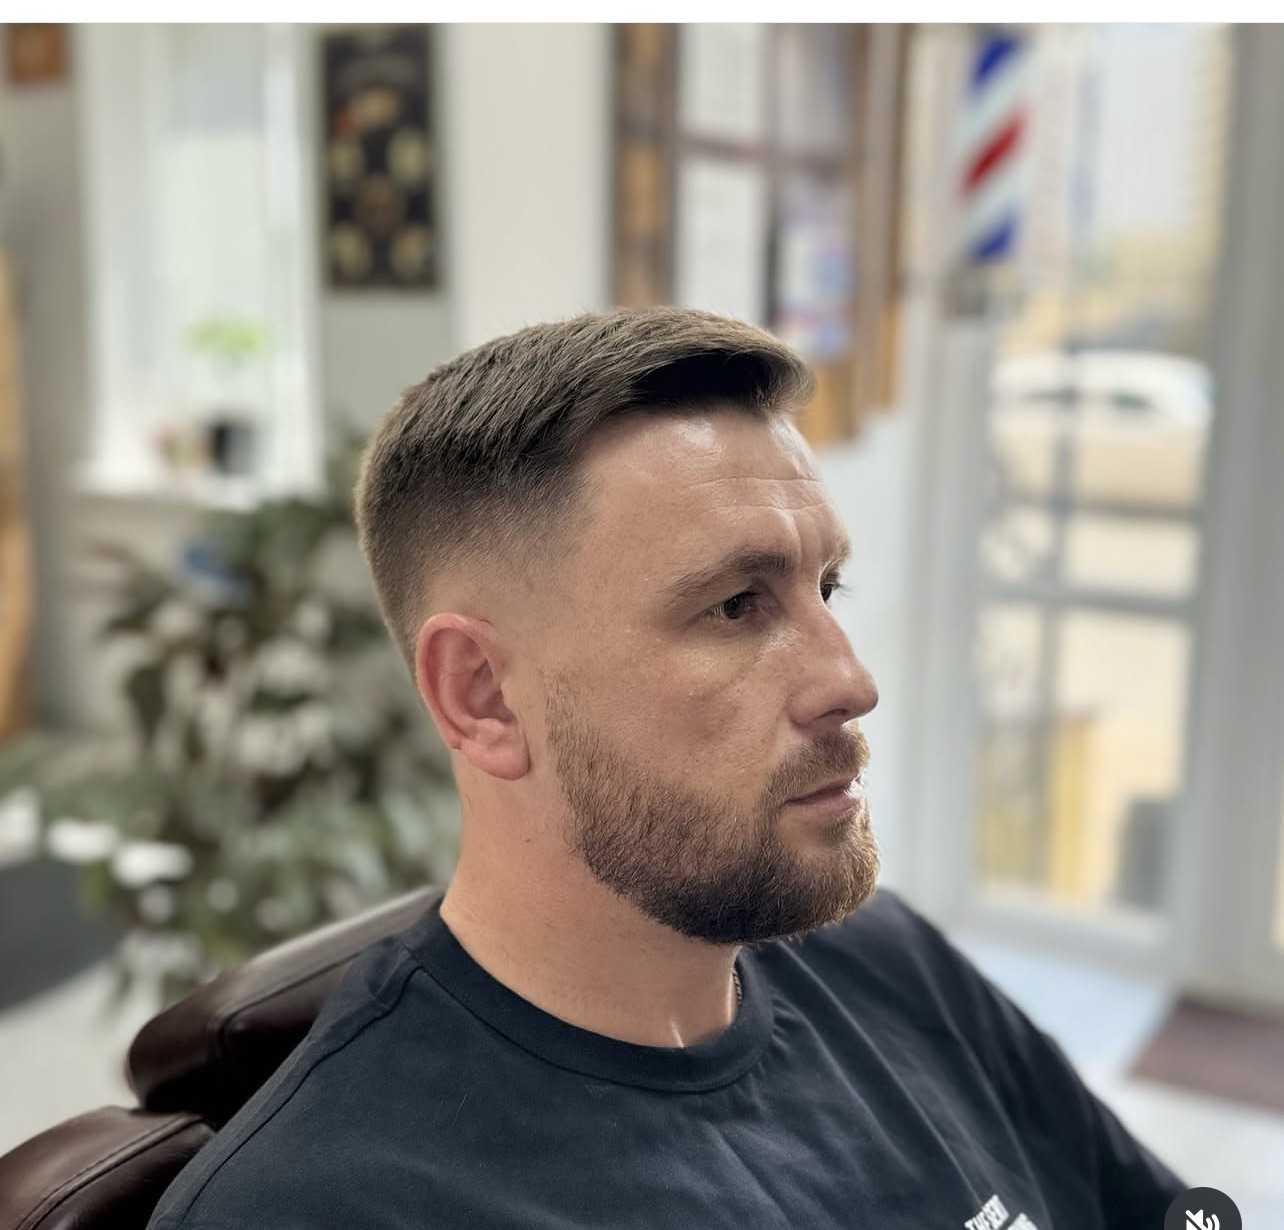
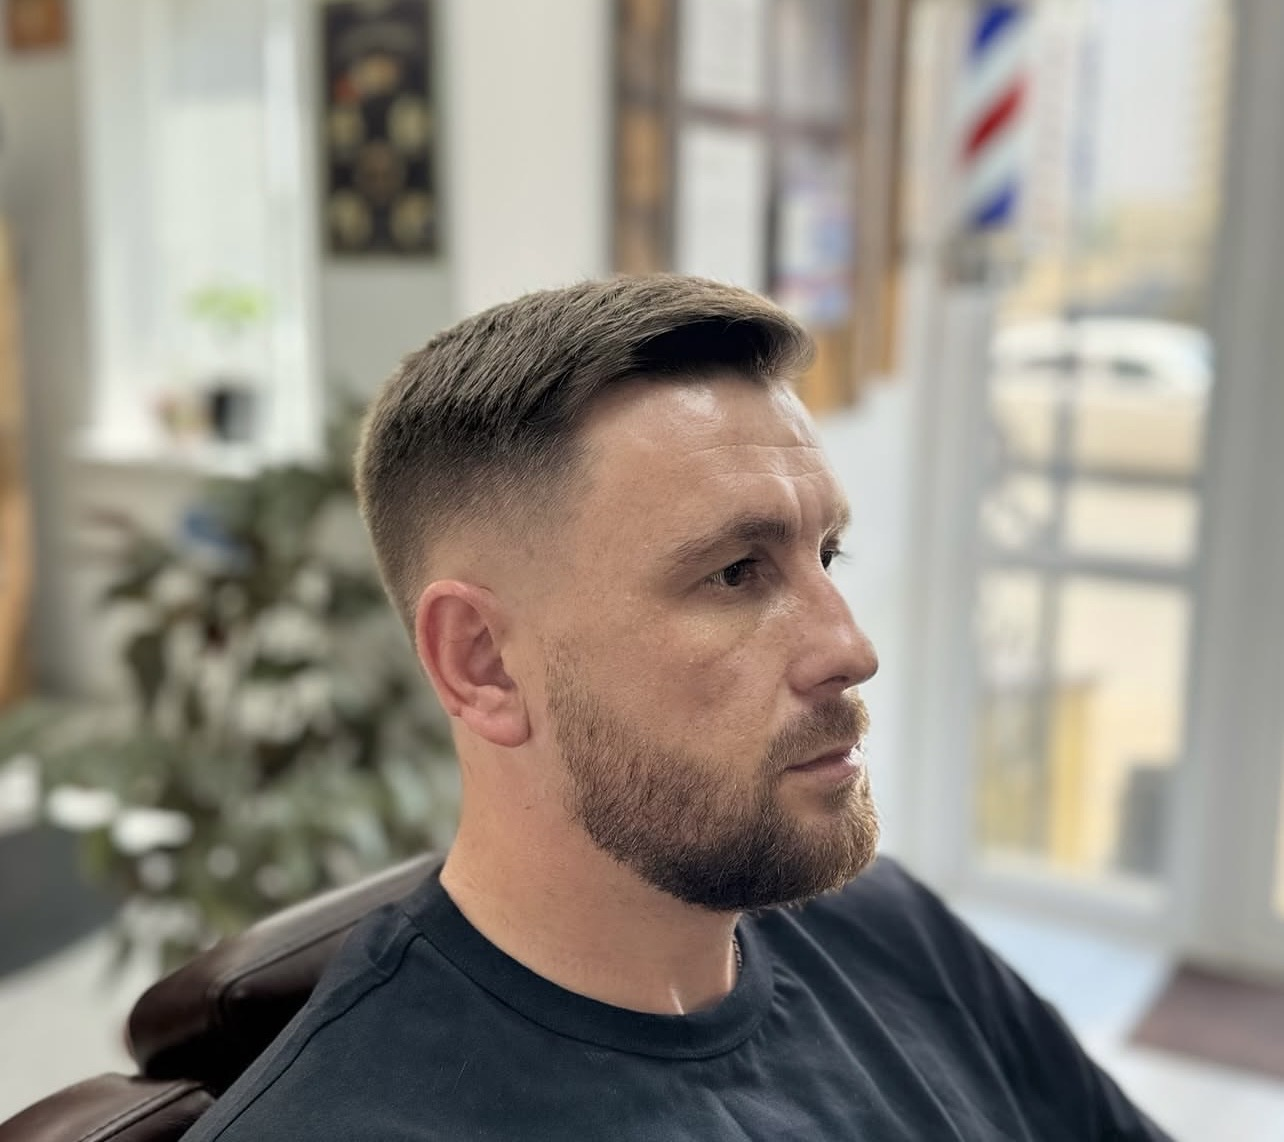
Откат логотипа в шапке, чистые фото портфолио + фото с сертификатами KONDOR
Логотип в шапке возвращён на текстовый вариант "АЛИХАН" по прямому
решению владельца. Фото 1 и 2 в разделе "Наши работы" заменены на чистые
оригиналы без следов скриншота Instagram (прислал владелец напрямую).
Добавлено седьмое фото - мастера салона с сертификатами мастер-класса
KONDOR.

diff --git a/index.html b/index.html
@@ -104,18 +104,10 @@
     padding: 14px clamp(18px, 5vw, 40px);
   }
   .brand{
-    display: flex; align-items: center; gap: 10px;
-    text-decoration: none;
-  }
-  .brand-logo{
-    width: 40px; height: 40px; border-radius: 50%; object-fit: cover;
-    border: 1px solid var(--border); flex-shrink: 0;
-  }
-  .brand-name{
     font-family: 'Playfair Display', Georgia, serif;
     font-weight: 600;
-    font-size: 1.15rem; letter-spacing: 0.03em;
-    color: var(--text);
+    font-size: 1.3rem; letter-spacing: 0.04em;
+    color: var(--text); text-decoration: none;
   }
   .btn{
     display: inline-block;
@@ -473,10 +465,7 @@
 
 <header class="site">
   <div class="nav">
-    <a href="#top" class="brand">
-      <img src="assets/logo-alikhan.png" alt="Алихан" class="brand-logo">
-      <span class="brand-name">Алихан</span>
-    </a>
+    <a href="#top" class="brand">АЛИХАН</a>
     <a href="#booking" class="btn">Записаться</a>
   </div>
 </header>
@@ -556,6 +545,7 @@
         <div class="work-photo"><img src="assets/portfolio/work-3.jpg" alt="Чистый фейд, готовый результат в интерьере салона" loading="lazy"></div>
         <div class="work-photo"><img src="assets/portfolio/work-4.jpg" alt="Чистый фейд, вид сбоку" loading="lazy"></div>
         <div class="work-photo"><img src="assets/portfolio/work-6.jpg" alt="Аккуратная окантовка, вид сзади" loading="lazy"></div>
+        <div class="work-photo"><img src="assets/portfolio/work-7.jpg" alt="Мастера салона на мастер-классе KONDOR с сертификатами" loading="lazy"></div>
       </div>
     </div>
   </section>
